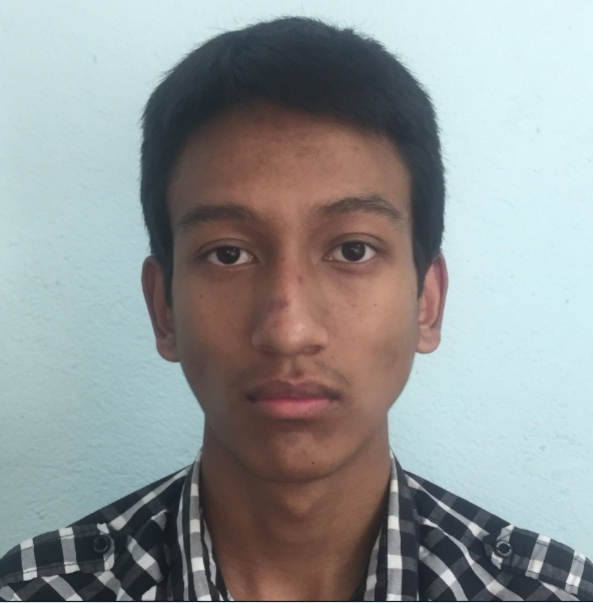
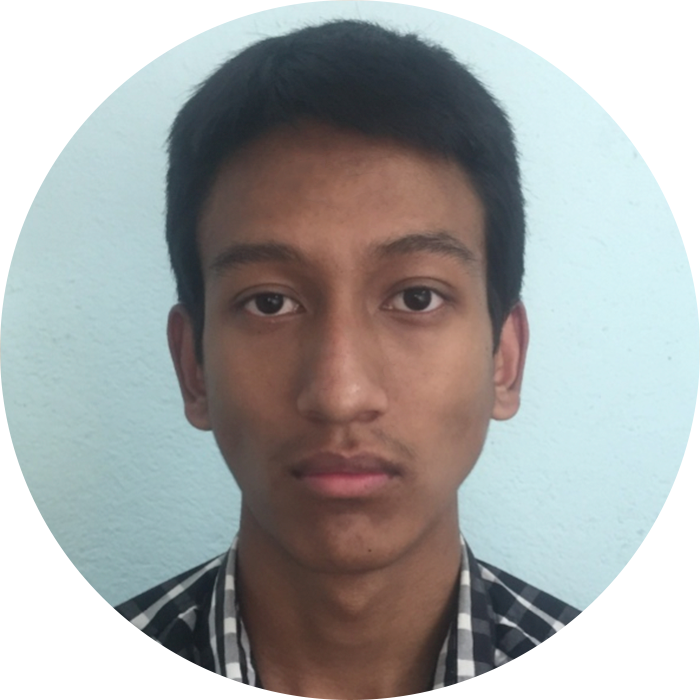
Added edited images of memebers

diff --git a/about-us.html b/about-us.html
@@ -157,7 +157,7 @@
         <div class="team-member-card">
           <div class="member-pic">
             <img
-              src="/images/team/board team/Aditya Karki_President.jpg"
+              src="/images/team/board team/Aditya Karki_President.png"
               alt="member's picture"
             />
           </div>
@@ -171,7 +171,7 @@
         <div class="team-member-card">
           <div class="member-pic">
             <img
-              src="/images/team/board team/Aayush Acharya_Vice President.jpg"
+              src="/images/team/board team/Aayush Acharya_Vice President.png"
               alt="member's picture"
             />
           </div>
@@ -184,7 +184,7 @@
         <div class="team-member-card">
           <div class="member-pic">
             <img
-              src="/images/team/board team/Prasanna Dhungana_Secretary.jpg"
+              src="/images/team/board team/Prasanna Dhungana_Secretary.png"
               alt="member's picture"
             />
           </div>
@@ -195,7 +195,7 @@
         <div class="team-member-card">
           <div class="member-pic">
             <img
-              src="/images/team/board team/Aayushma Upreti_Public Relation Manager.jpeg"
+              src="/images/team/board team/Aayushma Upreti_Public Relation Manager.png"
               alt="member's picture"
             />
           </div>
@@ -206,7 +206,7 @@
         <div class="team-member-card">
           <div class="member-pic">
             <img
-              src="/images/team/board team/Batsal Bhandari_Treasurer.jpg"
+              src="/images/team/board team/Batsal Bhandari_Treasurer.png"
               alt="member's picture"
             />
           </div>
@@ -223,7 +223,7 @@
         <div class="team-member-card">
           <div class="member-pic">
             <img
-              src="/images/team/content team/Raunak Adhikari_Video Lecture Creator.jpeg"
+              src="/images/team/content team/Raunak Adhikari_Video Lecture Creator.png"
               alt="member's picture"
             />
           </div>
@@ -234,7 +234,7 @@
         <div class="team-member-card">
           <div class="member-pic">
             <img
-              src="/images/team/content team/Pritesh Dubey_Video Lecture Creator.jpg"
+              src="/images/team/content team/Pritesh Dubey_Video Lecture Creator.png"
               alt="member's picture"
             />
           </div>
@@ -245,7 +245,7 @@
         <div class="team-member-card">
           <div class="member-pic">
             <img
-              src="/images/team/content team/Ronal Bista_Video Lecture Creator.jpg"
+              src="/images/team/content team/Ronal Bista_Video Lecture Creator.png"
               alt="member's picture"
             />
           </div>
@@ -256,7 +256,7 @@
         <div class="team-member-card">
           <div class="member-pic">
             <img
-              src="/images/team/content team/Anushna Chaulagain_Video Lecture Creator.PNG"
+              src="/images/team/content team/Anushna Chaulagain_Video Lecture Creator.png"
               alt="member's picture"
             />
           </div>
@@ -267,7 +267,7 @@
         <div class="team-member-card">
           <div class="member-pic">
             <img
-              src="/images/team/content team/Deepak Oli_Video Lecture Creator.jpg"
+              src="/images/team/content team/Deepak Oli_Video Lecture Creator.png"
               alt="member's picture"
             />
           </div>
@@ -278,7 +278,7 @@
         <div class="team-member-card">
           <div class="member-pic">
             <img
-              src="/images/team/content team/Suhail Alam Khan_Video Lecture Creator.jpg"
+              src="/images/team/content team/Suhail Alam Khan_Video Lecture Creator.png"
               alt="member's picture"
             />
           </div>
@@ -289,7 +289,7 @@
         <div class="team-member-card">
           <div class="member-pic">
             <img
-              src="/images/team/content team/Aayush Karki_Video Lecture Creator.jpg"
+              src="/images/team/content team/Aayush Karki_Video Lecture Creator.png"
               alt="member's picture"
             />
           </div>
@@ -300,7 +300,7 @@
         <div class="team-member-card">
           <div class="member-pic">
             <img
-              src="/images/team/content team/Xenex Joshi_Question and Answer Creator.PNG"
+              src="/images/team/content team/Xenex Joshi_Question and Answer Creator.png"
               alt="member's picture"
             />
           </div>
@@ -311,7 +311,7 @@
         <div class="team-member-card">
           <div class="member-pic">
             <img
-              src="/images/team/content team/Vivek Yadav_Question and Answer Creator.jpg"
+              src="/images/team/content team/Vivek Yadav_Question and Answer Creator.png"
               alt="member's picture"
             />
           </div>
@@ -344,7 +344,7 @@
         <div class="team-member-card">
           <div class="member-pic">
             <img
-              src="/images/team/content team/Pradip Bastola_Video Solution Creator.jpg"
+              src="/images/team/content team/Pradip Bastola_Video Solution Creator.png"
               alt="member's picture"
             />
           </div>
@@ -355,7 +355,7 @@
         <div class="team-member-card">
           <div class="member-pic">
             <img
-              src="/images/team/content team/Utsav Bhandari_Article Writer.jpg"
+              src="/images/team/content team/Utsav Bhandari_Article Writer.png"
               alt="member's picture"
             />
           </div>
@@ -366,7 +366,7 @@
         <div class="team-member-card">
           <div class="member-pic">
             <img
-              src="/images/team/content team/Smritee Tripathi_Article Writer.jpeg"
+              src="/images/team/content team/Smritee Tripathi_Article Writer.png"
               alt="member's picture"
             />
           </div>
@@ -388,7 +388,7 @@
         <div class="team-member-card">
           <div class="member-pic">
             <img
-              src="/images/team/content team/Bardan Dhakal_Blog Writer and Image Editor .jpg"
+              src="/images/team/content team/Bardan Dhakal_Video Lecture Creator.png"
               alt="member's picture"
             />
           </div>
@@ -399,7 +399,7 @@
         <div class="team-member-card">
           <div class="member-pic">
             <img
-              src="/images/team/content team/Amit Chaudhary_Blog Writer.JPG"
+              src="/images/team/content team/Amit Chaudhary_Blog Writer.png"
               alt="member's picture"
             />
           </div>
@@ -414,7 +414,7 @@
         <div class="team-member-card">
           <div class="member-pic">
             <img
-              src="/images/team/research team/Arnav Subedi.JPG"
+              src="/images/team/research team/Arnav Subedi.png"
               alt="member's picture"
             />
           </div>
@@ -425,7 +425,7 @@
         <div class="team-member-card">
           <div class="member-pic">
             <img
-              src="/images/team/research team/Jessica Shrestha.jpg"
+              src="/images/team/research team/Jessica Shrestha.png"
               alt="member's picture"
             />
           </div>
@@ -436,7 +436,7 @@
         <div class="team-member-card">
           <div class="member-pic">
             <img
-              src="/images/team/research team/Nischal Khanal.jpg"
+              src="/images/team/research team/Nischal Khanal.png"
               alt="member's picture"
             />
           </div>
@@ -447,7 +447,7 @@
         <div class="team-member-card">
           <div class="member-pic">
             <img
-              src="/images/team/research team/Kailash Yadav.jpg"
+              src="/images/team/research team/Kailash Yadav.png"
               alt="member's picture"
             />
           </div>
@@ -458,7 +458,7 @@
         <div class="team-member-card">
           <div class="member-pic">
             <img
-              src="/images/team/research team/Prasanna Kafle.jpg"
+              src="/images/team/research team/Prasanna Kafle.png"
               alt="member's picture"
             />
           </div>
@@ -467,24 +467,12 @@
         </div>
         </sec>
         </section>
-
         <section class="team-members type-2">
           <sec class="container">
         <div class="team-member-card">
           <div class="member-pic">
             <img
-              src="/images/team/public relations team/Aditya Raut_Public Relations Manager and Facebook Moderator.png"
-              alt="member's picture"
-            />
-          </div>
-          <b class="member-name">Aditya Raut</b>
-          <span class="member-role"> Public Relations Manager </span>
-        </div>
-
-        <div class="team-member-card">
-          <div class="member-pic">
-            <img
-              src="/images/team/public relations team/Ankit Das_Youtube Moderator.jpeg"
+              src="/images/team/public relations team/Ankit Das_Youtube Moderator.png"
               alt="member's picture"
             />
           </div>
@@ -495,7 +483,7 @@
         <div class="team-member-card">
           <div class="member-pic">
             <img
-              src="/images/team/public relations team/James Upreti_Linkedin Moderator.jpg"
+              src="/images/team/public relations team/James Upreti_Linkedin Moderator.png"
               alt="member's picture"
             />
           </div>
@@ -506,7 +494,7 @@
         <div class="team-member-card">
           <div class="member-pic">
             <img
-              src="/images/team/public relations team/Sudarshan Khanal_Instagram Moderator.JPG"
+              src="/images/team/public relations team/Sudarshan Khanal_Instagram Moderator.png"
               alt="member's picture"
             />
           </div>
@@ -521,7 +509,7 @@
         <div class="team-member-card">
           <div class="member-pic">
             <img
-              src="/images/team/graphics team/Kabir Rajbanshi_Graphics Head and Graphics Designer.jpg"
+              src="/images/team/graphics team/Kabir Rajbanshi_Graphics Head and Graphics Designer.png"
               alt="member's picture"
             />
           </div>
@@ -532,7 +520,7 @@
         <div class="team-member-card">
           <div class="member-pic">
             <img
-              src="/images/team/graphics team/Eric Dahal_Graphics Designer.jpg"
+              src="/images/team/graphics team/Eric Dahal_Graphics Designer.png"
               alt="member's picture"
             />
           </div>
@@ -543,7 +531,7 @@
         <div class="team-member-card">
           <div class="member-pic">
             <img
-              src="/images/team/graphics team/Nayan Gautam_Manim Animator.jpg"
+              src="/images/team/graphics team/Nayan Gautam_Manim Animator.png"
               alt="member's picture"
             />
           </div>
@@ -554,7 +542,7 @@
         <div class="team-member-card">
           <div class="member-pic">
             <img
-              src="/images/team/graphics team/Abhishek Pandit_Manim Animator.jpg"
+              src="/images/team/graphics team/Abhishek Pandit_Manim Animator.png"
               alt="member's picture"
             />
           </div>
@@ -569,7 +557,7 @@
         <div class="team-member-card">
           <div class="member-pic">
             <img
-              src="/images/team/technical team/Abhishek Shrestha_Technical Head and Web Developer.jpg"
+              src="/images/team/technical team/Abhishek Shrestha_Technical Head and Web Developer.png"
               alt="member's picture"
             />
           </div>
@@ -582,7 +570,7 @@
         <div class="team-member-card">
           <div class="member-pic">
             <img
-              src="/images/team/technical team/Namas Thapa_Web developer.jpeg"
+              src="/images/team/technical team/Namas Thapa_Web developer.png"
               alt="member's picture"
             />
           </div>
@@ -593,7 +581,7 @@
         <div class="team-member-card">
           <div class="member-pic">
             <img
-              src="/images/team/technical team/Bipul Aryal_Web Developer.jpg"
+              src="/images/team/technical team/Bipul Aryal_Web Developer.png"
               alt="member's picture"
             />
           </div>
@@ -604,7 +592,7 @@
         <div class="team-member-card">
           <div class="member-pic">
             <img
-              src="/images/team/technical team/Manish Gotame_Web Developer.jpeg"
+              src="/images/team/technical team/Manish Gotame_Web Developer.png"
               alt="member's picture"
             />
           </div>
@@ -615,7 +603,7 @@
         <div class="team-member-card">
           <div class="member-pic">
             <img
-              src="/images/team/technical team/Shusanket Bashyal_Web Developer.jpg"
+              src="/images/team/technical team/Shusanket Bashyal_Web Developer.png"
               alt="member's picture"
             />
           </div>
